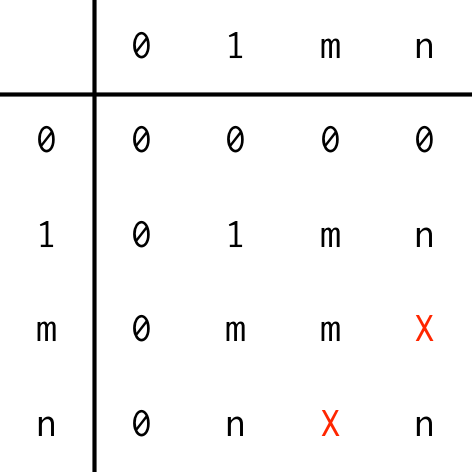
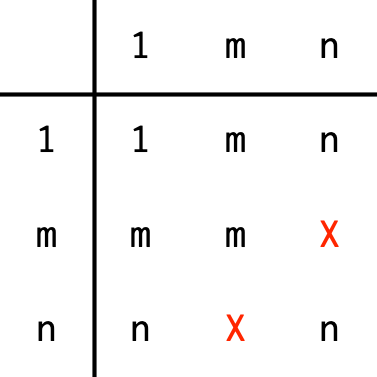
Built site for vctrs: 0.1.0.9005@da4c2ba

diff --git a/articles/type-size.html b/articles/type-size.html
@@ -394,11 +394,11 @@
 <a class="sourceLine" id="cb23-2" data-line-number="2">df &lt;-<span class="st"> </span><span class="kw"><a href="https://www.rdocumentation.org/packages/base/topics/data.frame">data.frame</a></span>(<span class="dt">x =</span> x)</a>
 <a class="sourceLine" id="cb23-3" data-line-number="3"></a>
 <a class="sourceLine" id="cb23-4" data-line-number="4"><span class="kw"><a href="../reference/vec_slice.html">vec_slice</a></span>(x, <span class="dv">5</span><span class="op">:</span><span class="dv">6</span>)</a>
-<a class="sourceLine" id="cb23-5" data-line-number="5"><span class="co">#&gt; [1] 3 2</span></a>
+<a class="sourceLine" id="cb23-5" data-line-number="5"><span class="co">#&gt; [1] 1 9</span></a>
 <a class="sourceLine" id="cb23-6" data-line-number="6"><span class="kw"><a href="../reference/vec_slice.html">vec_slice</a></span>(df, <span class="dv">5</span><span class="op">:</span><span class="dv">6</span>)</a>
 <a class="sourceLine" id="cb23-7" data-line-number="7"><span class="co">#&gt;   x</span></a>
-<a class="sourceLine" id="cb23-8" data-line-number="8"><span class="co">#&gt; 1 3</span></a>
-<a class="sourceLine" id="cb23-9" data-line-number="9"><span class="co">#&gt; 2 2</span></a></code></pre></div>
+<a class="sourceLine" id="cb23-8" data-line-number="8"><span class="co">#&gt; 1 1</span></a>
+<a class="sourceLine" id="cb23-9" data-line-number="9"><span class="co">#&gt; 2 9</span></a></code></pre></div>
 <p><code><a href="../reference/vec_slice.html">vec_slice(data.frame(x), i)</a></code> equals <code><a href="https://www.rdocumentation.org/packages/base/topics/data.frame">data.frame(vec_slice(x, i))</a></code> (modulo variable and row names).</p>
 <p>Prototypes are generated with <code><a href="../reference/vec_slice.html">vec_slice(x, 0L)</a></code>; given a prototype, you can initialize a vector of given size (filled with <code>NA</code>s) with <code><a href="../reference/vec_init.html">vec_init()</a></code>.</p>
 </div>
@@ -410,14 +410,9 @@
 <a class="sourceLine" id="cb24-2" data-line-number="2"><span class="co">#&gt; [1] 3</span></a>
 <a class="sourceLine" id="cb24-3" data-line-number="3"><span class="kw"><a href="../reference/vec_size.html">vec_size_common</a></span>(<span class="dv">1</span><span class="op">:</span><span class="dv">10</span>, <span class="dv">1</span>)</a>
 <a class="sourceLine" id="cb24-4" data-line-number="4"><span class="co">#&gt; [1] 10</span></a>
-<a class="sourceLine" id="cb24-5" data-line-number="5"><span class="kw"><a href="../reference/vec_size.html">vec_size_common</a></span>(<span class="kw"><a href="https://www.rdocumentation.org/packages/base/topics/integer">integer</a></span>(), <span class="dv">1</span><span class="op">:</span><span class="dv">3</span>)</a>
+<a class="sourceLine" id="cb24-5" data-line-number="5"><span class="kw"><a href="../reference/vec_size.html">vec_size_common</a></span>(<span class="kw"><a href="https://www.rdocumentation.org/packages/base/topics/integer">integer</a></span>(), <span class="dv">1</span>)</a>
 <a class="sourceLine" id="cb24-6" data-line-number="6"><span class="co">#&gt; [1] 0</span></a></code></pre></div>
-<p>vctrs obeys a stricter set of recycling rules than base R, only recycling under two circumstances:</p>
-<ul>
-<li>Vectors of size 1 can be recycled to any size.</li>
-<li>Vectors of any size can be recycled to size 0.</li>
-</ul>
-<p>All other size combinations will generate an error. This strictness prevents common mistakes like <code>dest == c("IAH", "HOU"))</code>, at the cost of occasionally requiring an explicit calls to <code><a href="https://www.rdocumentation.org/packages/base/topics/rep">rep()</a></code>.</p>
+<p>vctrs obeys a stricter set of recycling rules than base R. Vectors of size 1 are recycled to any other size. All other size combinations will generate an error. This strictness prevents common mistakes like <code>dest == c("IAH", "HOU"))</code>, at the cost of occasionally requiring an explicit calls to <code><a href="https://www.rdocumentation.org/packages/base/topics/rep">rep()</a></code>.</p>
 <div class="figure">
 <img src="../man/figures/sizes-recycling.png" alt="Summary of vctrs recycling rules. X indicates n error"><p class="caption">Summary of vctrs recycling rules. X indicates n error</p>
 </div>
@@ -428,9 +423,7 @@
 <div class="sourceCode" id="cb25"><pre class="sourceCode r"><code class="sourceCode r"><a class="sourceLine" id="cb25-1" data-line-number="1"><span class="kw"><a href="../reference/vec_recycle.html">vec_recycle</a></span>(<span class="dv">1</span><span class="op">:</span><span class="dv">3</span>, <span class="dv">3</span>)</a>
 <a class="sourceLine" id="cb25-2" data-line-number="2"><span class="co">#&gt; [1] 1 2 3</span></a>
 <a class="sourceLine" id="cb25-3" data-line-number="3"><span class="kw"><a href="../reference/vec_recycle.html">vec_recycle</a></span>(<span class="dv">1</span>, <span class="dv">10</span>)</a>
-<a class="sourceLine" id="cb25-4" data-line-number="4"><span class="co">#&gt;  [1] 1 1 1 1 1 1 1 1 1 1</span></a>
-<a class="sourceLine" id="cb25-5" data-line-number="5"><span class="kw"><a href="../reference/vec_recycle.html">vec_recycle</a></span>(<span class="dv">1</span><span class="op">:</span><span class="dv">3</span>, <span class="dv">0</span>)</a>
-<a class="sourceLine" id="cb25-6" data-line-number="6"><span class="co">#&gt; integer(0)</span></a></code></pre></div>
+<a class="sourceLine" id="cb25-4" data-line-number="4"><span class="co">#&gt;  [1] 1 1 1 1 1 1 1 1 1 1</span></a></code></pre></div>
 </li>
 <li>
 <p>If you have multiple vectors and you want to recycle them to the same size, use <code><a href="../reference/vec_recycle.html">vec_recycle_common()</a></code>:</p>
@@ -445,13 +438,7 @@
 <a class="sourceLine" id="cb26-9" data-line-number="9"><span class="co">#&gt;  [1]  1  2  3  4  5  6  7  8  9 10</span></a>
 <a class="sourceLine" id="cb26-10" data-line-number="10"><span class="co">#&gt; </span></a>
 <a class="sourceLine" id="cb26-11" data-line-number="11"><span class="co">#&gt; [[2]]</span></a>
-<a class="sourceLine" id="cb26-12" data-line-number="12"><span class="co">#&gt;  [1] 1 1 1 1 1 1 1 1 1 1</span></a>
-<a class="sourceLine" id="cb26-13" data-line-number="13"><span class="kw"><a href="../reference/vec_recycle.html">vec_recycle_common</a></span>(<span class="kw"><a href="https://www.rdocumentation.org/packages/base/topics/integer">integer</a></span>(), <span class="dv">1</span><span class="op">:</span><span class="dv">3</span>)</a>
-<a class="sourceLine" id="cb26-14" data-line-number="14"><span class="co">#&gt; [[1]]</span></a>
-<a class="sourceLine" id="cb26-15" data-line-number="15"><span class="co">#&gt; integer(0)</span></a>
-<a class="sourceLine" id="cb26-16" data-line-number="16"><span class="co">#&gt; </span></a>
-<a class="sourceLine" id="cb26-17" data-line-number="17"><span class="co">#&gt; [[2]]</span></a>
-<a class="sourceLine" id="cb26-18" data-line-number="18"><span class="co">#&gt; integer(0)</span></a></code></pre></div>
+<a class="sourceLine" id="cb26-12" data-line-number="12"><span class="co">#&gt;  [1] 1 1 1 1 1 1 1 1 1 1</span></a></code></pre></div>
 </li>
 </ul>
 </div>

diff --git a/reference/vec_c.html b/reference/vec_c.html
@@ -199,8 +199,8 @@ or columns.</p></div>
     <h2 class="hasAnchor" id="examples"><a class="anchor" href="#examples"></a>Examples</h2>
     <pre class="examples"><div class='input'><span class='fu'>vec_c</span>(<span class='fl'>FALSE</span>, <span class='fl'>1L</span>, <span class='fl'>1.5</span>)</div><div class='output co'>#&gt; [1] 0.0 1.0 1.5</div><div class='input'><span class='fu'>vec_c</span>(<span class='fl'>FALSE</span>, <span class='fl'>1L</span>, <span class='st'>"x"</span>, <span class='kw'>.ptype</span> <span class='kw'>=</span> <span class='fu'><a href='https://www.rdocumentation.org/packages/base/topics/character'>character</a></span>())</div><div class='output co'>#&gt; [1] "FALSE" "1"     "x"    </div><div class='input'>
 <span class='co'># Date/times --------------------------</span>
-<span class='fu'><a href='https://www.rdocumentation.org/packages/base/topics/c'>c</a></span>(<span class='fu'><a href='https://www.rdocumentation.org/packages/base/topics/Sys.time'>Sys.Date</a></span>(), <span class='fu'><a href='https://www.rdocumentation.org/packages/base/topics/Sys.time'>Sys.time</a></span>())</div><div class='output co'>#&gt; [1] "2019-06-27"    "4277611-03-02"</div><div class='input'><span class='fu'><a href='https://www.rdocumentation.org/packages/base/topics/c'>c</a></span>(<span class='fu'><a href='https://www.rdocumentation.org/packages/base/topics/Sys.time'>Sys.time</a></span>(), <span class='fu'><a href='https://www.rdocumentation.org/packages/base/topics/Sys.time'>Sys.Date</a></span>())</div><div class='output co'>#&gt; [1] "2019-06-27 14:31:08 UTC" "1970-01-01 05:01:14 UTC"</div><div class='input'>
-<span class='fu'>vec_c</span>(<span class='fu'><a href='https://www.rdocumentation.org/packages/base/topics/Sys.time'>Sys.Date</a></span>(), <span class='fu'><a href='https://www.rdocumentation.org/packages/base/topics/Sys.time'>Sys.time</a></span>())</div><div class='output co'>#&gt; [1] "2019-06-27 00:00:00 UTC" "2019-06-27 14:31:08 UTC"</div><div class='input'><span class='fu'>vec_c</span>(<span class='fu'><a href='https://www.rdocumentation.org/packages/base/topics/Sys.time'>Sys.time</a></span>(), <span class='fu'><a href='https://www.rdocumentation.org/packages/base/topics/Sys.time'>Sys.Date</a></span>())</div><div class='output co'>#&gt; [1] "2019-06-27 14:31:08 UTC" "2019-06-27 00:00:00 UTC"</div><div class='input'>
+<span class='fu'><a href='https://www.rdocumentation.org/packages/base/topics/c'>c</a></span>(<span class='fu'><a href='https://www.rdocumentation.org/packages/base/topics/Sys.time'>Sys.Date</a></span>(), <span class='fu'><a href='https://www.rdocumentation.org/packages/base/topics/Sys.time'>Sys.time</a></span>())</div><div class='output co'>#&gt; [1] "2019-06-27"    "4277632-06-29"</div><div class='input'><span class='fu'><a href='https://www.rdocumentation.org/packages/base/topics/c'>c</a></span>(<span class='fu'><a href='https://www.rdocumentation.org/packages/base/topics/Sys.time'>Sys.time</a></span>(), <span class='fu'><a href='https://www.rdocumentation.org/packages/base/topics/Sys.time'>Sys.Date</a></span>())</div><div class='output co'>#&gt; [1] "2019-06-27 16:40:58 UTC" "1970-01-01 05:01:14 UTC"</div><div class='input'>
+<span class='fu'>vec_c</span>(<span class='fu'><a href='https://www.rdocumentation.org/packages/base/topics/Sys.time'>Sys.Date</a></span>(), <span class='fu'><a href='https://www.rdocumentation.org/packages/base/topics/Sys.time'>Sys.time</a></span>())</div><div class='output co'>#&gt; [1] "2019-06-27 00:00:00 UTC" "2019-06-27 16:40:58 UTC"</div><div class='input'><span class='fu'>vec_c</span>(<span class='fu'><a href='https://www.rdocumentation.org/packages/base/topics/Sys.time'>Sys.time</a></span>(), <span class='fu'><a href='https://www.rdocumentation.org/packages/base/topics/Sys.time'>Sys.Date</a></span>())</div><div class='output co'>#&gt; [1] "2019-06-27 16:40:58 UTC" "2019-06-27 00:00:00 UTC"</div><div class='input'>
 <span class='co'># Factors -----------------------------</span>
 <span class='fu'><a href='https://www.rdocumentation.org/packages/base/topics/c'>c</a></span>(<span class='fu'><a href='https://www.rdocumentation.org/packages/base/topics/factor'>factor</a></span>(<span class='st'>"a"</span>), <span class='fu'><a href='https://www.rdocumentation.org/packages/base/topics/factor'>factor</a></span>(<span class='st'>"b"</span>))</div><div class='output co'>#&gt; [1] 1 1</div><div class='input'><span class='fu'>vec_c</span>(<span class='fu'><a href='https://www.rdocumentation.org/packages/base/topics/factor'>factor</a></span>(<span class='st'>"a"</span>), <span class='fu'><a href='https://www.rdocumentation.org/packages/base/topics/factor'>factor</a></span>(<span class='st'>"b"</span>))</div><div class='output co'>#&gt; [1] a b
 #&gt; Levels: a b</div><div class='input'>

diff --git a/reference/unspecified.html b/reference/unspecified.html
@@ -155,7 +155,7 @@ allow <code>NA</code> to specify missingness without requiring a type.</p>
     <h2 class="hasAnchor" id="examples"><a class="anchor" href="#examples"></a>Examples</h2>
     <pre class="examples"><div class='input'><span class='fu'><a href='vec_type.html'>vec_ptype</a></span>()</div><div class='output co'>#&gt; Prototype: NULL</div><div class='input'><span class='fu'><a href='vec_type.html'>vec_ptype</a></span>(<span class='fl'>NA</span>)</div><div class='output co'>#&gt; Prototype: logical</div><div class='input'>
 <span class='fu'><a href='vec_c.html'>vec_c</a></span>(<span class='fl'>NA</span>, <span class='fu'><a href='https://www.rdocumentation.org/packages/base/topics/factor'>factor</a></span>(<span class='st'>"x"</span>))</div><div class='output co'>#&gt; [1] &lt;NA&gt; x   
-#&gt; Levels: x</div><div class='input'><span class='fu'><a href='vec_c.html'>vec_c</a></span>(<span class='fl'>NA</span>, <span class='fu'><a href='https://www.rdocumentation.org/packages/base/topics/Sys.time'>Sys.Date</a></span>())</div><div class='output co'>#&gt; [1] NA           "2019-06-27"</div><div class='input'><span class='fu'><a href='vec_c.html'>vec_c</a></span>(<span class='fl'>NA</span>, <span class='fu'><a href='https://www.rdocumentation.org/packages/base/topics/Sys.time'>Sys.time</a></span>())</div><div class='output co'>#&gt; [1] NA                        "2019-06-27 14:31:06 UTC"</div><div class='input'><span class='fu'><a href='vec_c.html'>vec_c</a></span>(<span class='fl'>NA</span>, <span class='fu'><a href='https://www.rdocumentation.org/packages/base/topics/list'>list</a></span>(<span class='fl'>1</span>:<span class='fl'>3</span>, <span class='fl'>4</span>:<span class='fl'>5</span>))</div><div class='output co'>#&gt; [[1]]
+#&gt; Levels: x</div><div class='input'><span class='fu'><a href='vec_c.html'>vec_c</a></span>(<span class='fl'>NA</span>, <span class='fu'><a href='https://www.rdocumentation.org/packages/base/topics/Sys.time'>Sys.Date</a></span>())</div><div class='output co'>#&gt; [1] NA           "2019-06-27"</div><div class='input'><span class='fu'><a href='vec_c.html'>vec_c</a></span>(<span class='fl'>NA</span>, <span class='fu'><a href='https://www.rdocumentation.org/packages/base/topics/Sys.time'>Sys.time</a></span>())</div><div class='output co'>#&gt; [1] NA                        "2019-06-27 16:40:56 UTC"</div><div class='input'><span class='fu'><a href='vec_c.html'>vec_c</a></span>(<span class='fl'>NA</span>, <span class='fu'><a href='https://www.rdocumentation.org/packages/base/topics/list'>list</a></span>(<span class='fl'>1</span>:<span class='fl'>3</span>, <span class='fl'>4</span>:<span class='fl'>5</span>))</div><div class='output co'>#&gt; [[1]]
 #&gt; [1] NA
 #&gt; 
 #&gt; [[2]]

diff --git a/reference/vec_size.html b/reference/vec_size.html
@@ -219,7 +219,7 @@ and <code><a href='vec_recycle.html'>vec_recycle()</a></code> to recycle vectors
 
     <h2 class="hasAnchor" id="examples"><a class="anchor" href="#examples"></a>Examples</h2>
     <pre class="examples"><div class='input'><span class='fu'>vec_size</span>(<span class='fl'>1</span>:<span class='fl'>100</span>)</div><div class='output co'>#&gt; [1] 100</div><div class='input'><span class='fu'>vec_size</span>(<span class='no'>mtcars</span>)</div><div class='output co'>#&gt; [1] 32</div><div class='input'><span class='fu'>vec_size</span>(<span class='fu'><a href='https://www.rdocumentation.org/packages/base/topics/array'>array</a></span>(<span class='kw'>dim</span> <span class='kw'>=</span> <span class='fu'><a href='https://www.rdocumentation.org/packages/base/topics/c'>c</a></span>(<span class='fl'>3</span>, <span class='fl'>5</span>, <span class='fl'>10</span>)))</div><div class='output co'>#&gt; [1] 3</div><div class='input'>
-<span class='fu'>vec_size_common</span>(<span class='fl'>1</span>:<span class='fl'>10</span>, <span class='fl'>1</span>:<span class='fl'>10</span>)</div><div class='output co'>#&gt; [1] 10</div><div class='input'><span class='fu'>vec_size_common</span>(<span class='fl'>1</span>:<span class='fl'>10</span>, <span class='fl'>1</span>)</div><div class='output co'>#&gt; [1] 10</div><div class='input'><span class='fu'>vec_size_common</span>(<span class='fl'>1</span>:<span class='fl'>10</span>, <span class='fu'><a href='https://www.rdocumentation.org/packages/base/topics/integer'>integer</a></span>())</div><div class='output co'>#&gt; [1] 0</div></pre>
+<span class='fu'>vec_size_common</span>(<span class='fl'>1</span>:<span class='fl'>10</span>, <span class='fl'>1</span>:<span class='fl'>10</span>)</div><div class='output co'>#&gt; [1] 10</div><div class='input'><span class='fu'>vec_size_common</span>(<span class='fl'>1</span>:<span class='fl'>10</span>, <span class='fl'>1</span>)</div><div class='output co'>#&gt; [1] 10</div><div class='input'><span class='fu'>vec_size_common</span>(<span class='fu'><a href='https://www.rdocumentation.org/packages/base/topics/integer'>integer</a></span>(), <span class='fl'>1</span>)</div><div class='output co'>#&gt; [1] 0</div></pre>
   </div>
   <div class="col-md-3 hidden-xs hidden-sm" id="sidebar">
     <h2>Contents</h2>

diff --git a/reference/vec_recycle.html b/reference/vec_recycle.html
@@ -164,6 +164,7 @@ will use the common size from <code><a href='vec_size.html'>vec_size_common()</a
     
     <p>The common size of two vectors defines the recycling rules, and can be
 summarise with the following table:</p>
+<p><img src='figures/sizes-recycling.png' alt='' /></p>
 <p>(Note <code>NULL</code>s are handled specially; they are treated like empty
 arguments and hence don't affect the size)</p>
 <p>This is a stricter set of rules than base R, which will usually
@@ -180,16 +181,14 @@ recycled to be the same length.</p>
 #&gt; 
 #&gt; [[2]]
 #&gt; [1] 5 5 5 5 5
-#&gt; </div><span class='co'># NOT RUN {</span>
-<span class='fu'>vec_recycle_common</span>(<span class='fl'>1</span>:<span class='fl'>5</span>, <span class='fl'>1</span>:<span class='fl'>2</span>)
-<span class='co'># }</span><div class='input'>
-<span class='co'># Inputs with 0 observations</span>
-<span class='fu'>vec_recycle_common</span>(<span class='fl'>1</span>:<span class='fl'>5</span>, <span class='fu'><a href='https://www.rdocumentation.org/packages/base/topics/integer'>integer</a></span>())</div><div class='output co'>#&gt; [[1]]
+#&gt; </div><div class='input'><span class='fu'>vec_recycle_common</span>(<span class='fu'><a href='https://www.rdocumentation.org/packages/base/topics/integer'>integer</a></span>(), <span class='fl'>5</span>)</div><div class='output co'>#&gt; [[1]]
 #&gt; integer(0)
 #&gt; 
 #&gt; [[2]]
-#&gt; integer(0)
-#&gt; </div><div class='input'>
+#&gt; numeric(0)
+#&gt; </div><span class='co'># NOT RUN {</span>
+<span class='fu'>vec_recycle_common</span>(<span class='fl'>1</span>:<span class='fl'>5</span>, <span class='fl'>1</span>:<span class='fl'>2</span>)
+<span class='co'># }</span><div class='input'>
 <span class='co'># Data frames and matrices are recycled along their rows</span>
 <span class='fu'>vec_recycle_common</span>(<span class='fu'><a href='https://www.rdocumentation.org/packages/base/topics/data.frame'>data.frame</a></span>(<span class='kw'>x</span> <span class='kw'>=</span> <span class='fl'>1</span>), <span class='fl'>1</span>:<span class='fl'>5</span>)</div><div class='output co'>#&gt; [[1]]
 #&gt;   x

diff --git a/reference/vec_count.html b/reference/vec_count.html
@@ -196,8 +196,8 @@ if you want to match the counts up to other unique/duplicated functions.</p></li
 #&gt; 9    k     2
 #&gt; 10   l     2
 #&gt; 11   i     2
-#&gt; 12   a     1
-#&gt; 13   n     1</div><div class='input'>
+#&gt; 12   n     1
+#&gt; 13   a     1</div><div class='input'>
 <span class='co'># by can sort by key</span>
 <span class='fu'>vec_count</span>(<span class='no'>x</span>, <span class='kw'>sort</span> <span class='kw'>=</span> <span class='st'>"key"</span>)</div><div class='output co'>#&gt;    key count
 #&gt; 1    a     1
@@ -230,19 +230,19 @@ if you want to match the counts up to other unique/duplicated functions.</p></li
 #&gt; 13   a     1</div><div class='input'><span class='fu'><a href='https://www.rdocumentation.org/packages/utils/topics/head'>head</a></span>(<span class='no'>x</span>)</div><div class='output co'>#&gt; [1] "e" "e" "d" "e" "c" "e"</div><div class='input'>
 <span class='co'># or not at all</span>
 <span class='fu'>vec_count</span>(<span class='no'>x</span>, <span class='kw'>sort</span> <span class='kw'>=</span> <span class='st'>"none"</span>)</div><div class='output co'>#&gt;    key count
-#&gt; 1    k     2
-#&gt; 2    c     4
-#&gt; 3    f    21
-#&gt; 4    j     3
-#&gt; 5    l     2
-#&gt; 6    i     2
-#&gt; 7    g    16
+#&gt; 1    j     3
+#&gt; 2    k     2
+#&gt; 3    b     6
+#&gt; 4    g    16
+#&gt; 5    h     9
+#&gt; 6    l     2
+#&gt; 7    e    19
 #&gt; 8    d    14
-#&gt; 9    a     1
-#&gt; 10   e    19
-#&gt; 11   b     6
-#&gt; 12   n     1
-#&gt; 13   h     9</div></pre>
+#&gt; 9    n     1
+#&gt; 10   c     4
+#&gt; 11   f    21
+#&gt; 12   a     1
+#&gt; 13   i     2</div></pre>
   </div>
   <div class="col-md-3 hidden-xs hidden-sm" id="sidebar">
     <h2>Contents</h2>

diff --git a/articles/stability.html b/articles/stability.html
@@ -225,7 +225,7 @@ It is size-unstable for the same reasons as <code><a href="https://www.rdocument
 <a class="sourceLine" id="cb11-2" data-line-number="2"><span class="co">#&gt; [[1]]</span></a>
 <a class="sourceLine" id="cb11-3" data-line-number="3"><span class="co">#&gt; function (x, ...) </span></a>
 <a class="sourceLine" id="cb11-4" data-line-number="4"><span class="co">#&gt; UseMethod("mean")</span></a>
-<a class="sourceLine" id="cb11-5" data-line-number="5"><span class="co">#&gt; &lt;bytecode: 0x34a9180&gt;</span></a>
+<a class="sourceLine" id="cb11-5" data-line-number="5"><span class="co">#&gt; &lt;bytecode: 0x45c4180&gt;</span></a>
 <a class="sourceLine" id="cb11-6" data-line-number="6"><span class="co">#&gt; &lt;environment: namespace:base&gt;</span></a>
 <a class="sourceLine" id="cb11-7" data-line-number="7"><span class="co">#&gt; </span></a>
 <a class="sourceLine" id="cb11-8" data-line-number="8"><span class="co">#&gt; [[2]]</span></a>
